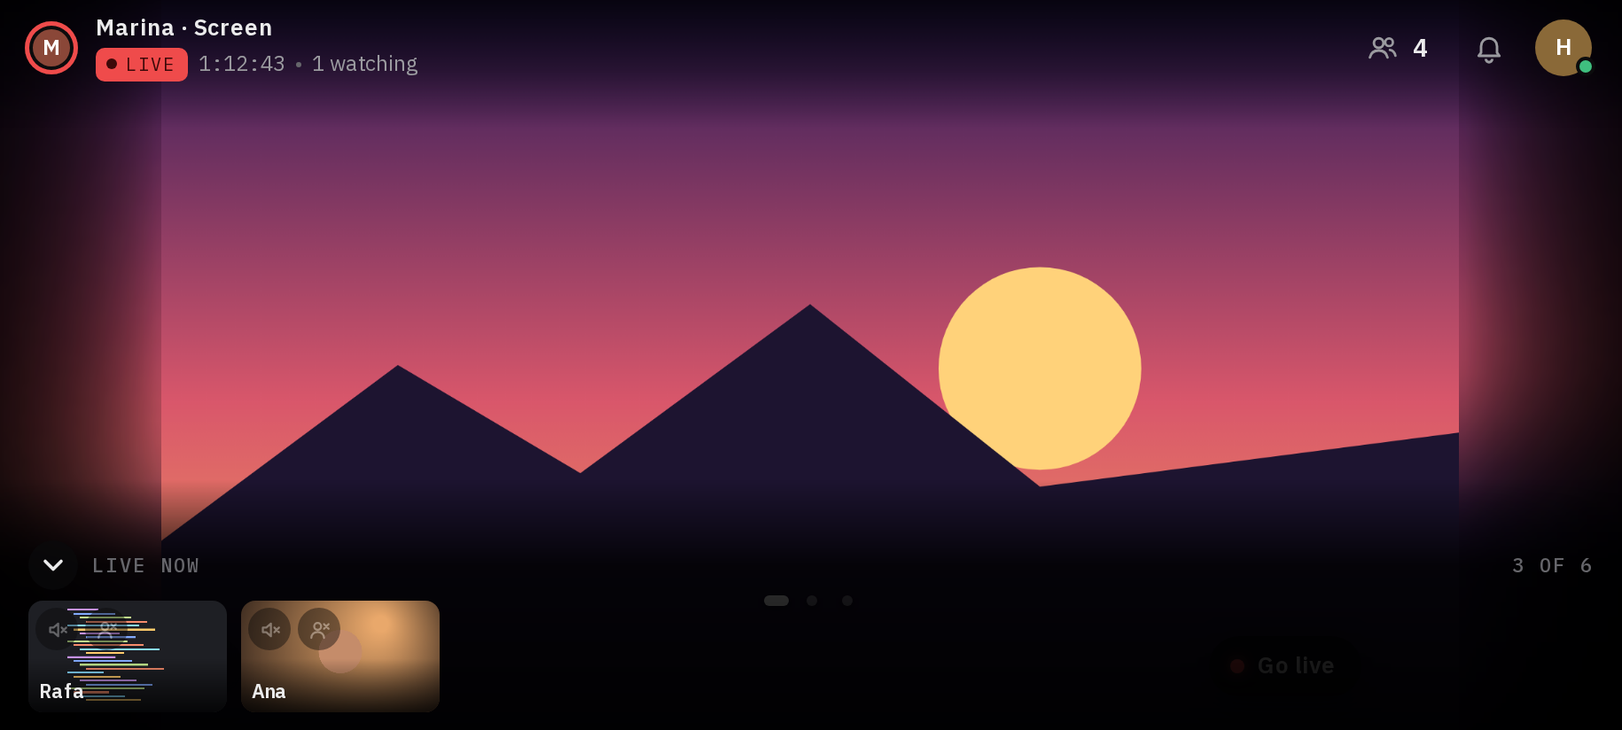
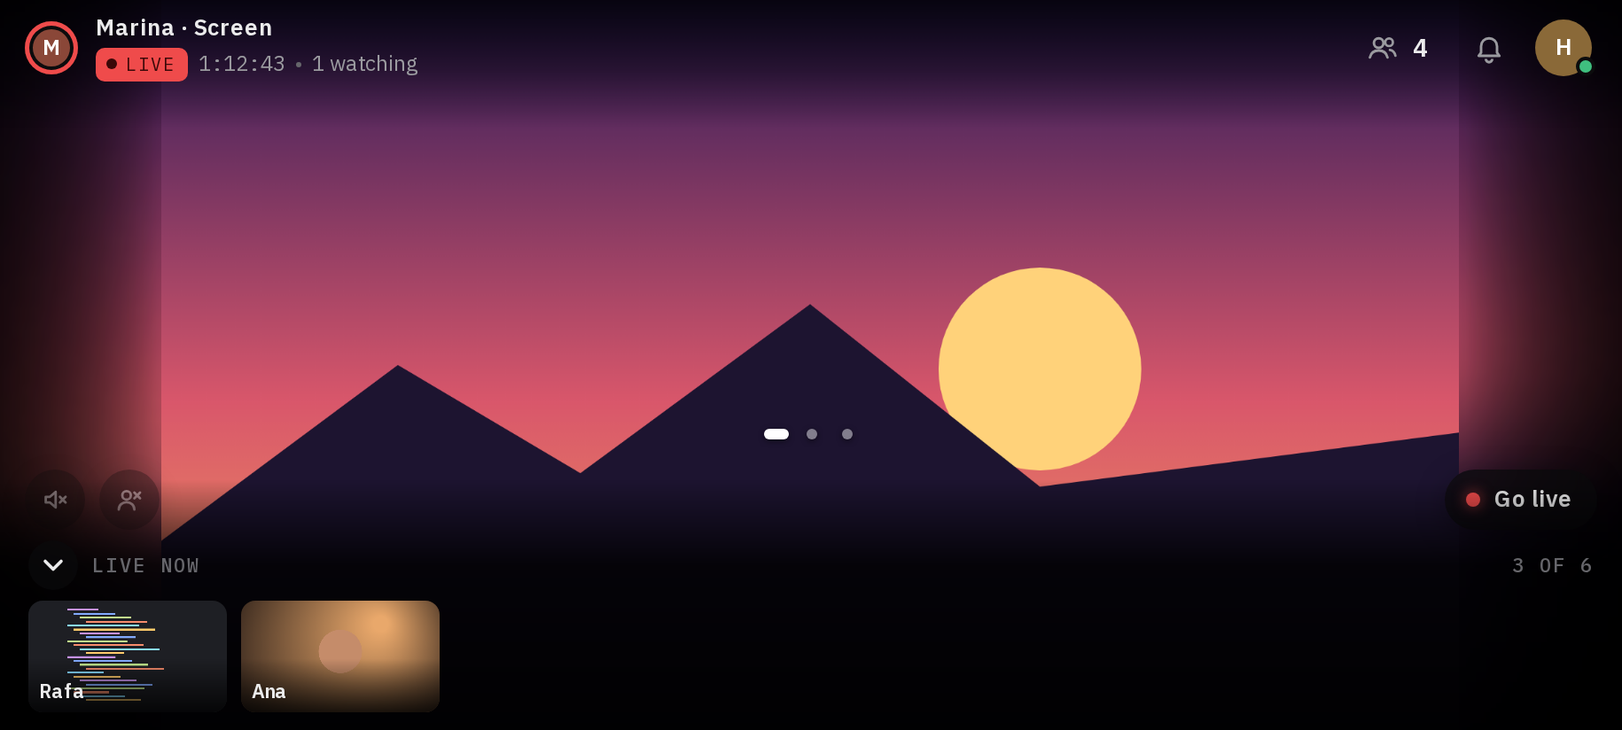
docs(web): previews heard, their row, the stack, the sideways controls and the tap in the design sheet, media and architecture (0131)
The arrow's room is dropped while the settings sheet lifts the buttons off its line.

diff --git a/app/src/components/stage/Stage.tsx b/app/src/components/stage/Stage.tsx
@@ -367,7 +367,9 @@ export function Stage({
       box?.removeEventListener("transitionend", place);
     };
   }, [settingsOpen, sideways, onScreen]);
-  const rowArrow = sideways && Boolean(big) && sharers.length > 1;
+  // The streams row's arrow at the bottom-left, on the buttons' line; lifted above the settings sheet,
+  // the buttons are off its line and need no room for it.
+  const rowArrow = sideways && Boolean(big) && sharers.length > 1 && !makingRoom;
   const playing = Boolean(main && (big?.isMe ? main.local : main.remote));
   useEffect(() => () => window.clearTimeout(idleTimer.current), []);
 

diff --git a/docs/design.md b/docs/design.md
@@ -147,7 +147,12 @@ Body line height is 1.5; headings balance their lines (`text-wrap: balance`). Fo
 | A drop-up: the pause before it unrolls | 120 ms resting on the button | — |
 | …its fade and 6 px slide up | 140 ms and 180 ms; a slip outside shorter than 300 ms doesn't close it | ease, `cubic-bezier(0.2, 0.8, 0.2, 1)` |
 | A sound's slider unrolling over its button: resting the mouse on it, or holding it by touch | after 120 ms at rest, 500 ms held; closes after 4 s without a touch | `cubic-bezier(0.2, 0.8, 0.2, 1)` |
-| The speaking cue lighting and going out | 120 ms | ease |
+| The speaking cue lighting and going out (a button's, a preview's ring) | 120 ms | ease |
+| A small preview's row unrolling from its preview and rolling back into it; moving to another preview, one rolls back as the next unrolls | 260 ms (`--unroll`), fading in 200 ms | `cubic-bezier(0.2, 0.8, 0.2, 1)` |
+| The row's slider unrolling after its buttons, and rolling back | 300 ms; 240 ms back | `cubic-bezier(0.2, 0.8, 0.2, 1)`; `cubic-bezier(0.4, 0, 0.2, 1)` back |
+| Switching the row's slider to the other sound: the old bar shrinks to the left, the new one grows from it, the icons crossfading | 220 ms shrink; 260 ms grow, 120 ms later | `cubic-bezier(0.4, 0, 0.2, 1)`; `cubic-bezier(0.2, 0.8, 0.2, 1)` |
+| A stacked preview's swap: the picture behind comes forward | 360 ms | `cubic-bezier(0.2, 0.8, 0.2, 1)` |
+| The buttons rising above the open streams row, and settling back | 280 ms, with the row | ease |
 | A picker's chevron turning | 200 ms | `cubic-bezier(0.2, 0.8, 0.2, 1)` |
 | The cue: a control pointed at (a sharp red border pulsing in place, with a slight glow) | two 1 s pulses, then lit until the next press; still with reduced motion | ease-in-out |
 | A list unrolling from its pill, its options fading in by their distance (40 ms apart), and rolling back | 220 ms; 150 ms back | `cubic-bezier(0.2, 0.8, 0.2, 1)`; ease-in back |
@@ -156,7 +161,7 @@ Body line height is 1.5; headings balance their lines (`text-wrap: balance`). Fo
 | A new activity in the pill | 350 ms | ease |
 | Facecam buttons fading | 250 ms | ease |
 | The stage resizing to a new picture | 350 ms | ease |
-| Controls over a playing stream | fade after about 2.5 s without a touch or mouse move; back on any move | — |
+| Controls over a playing stream | fade after about 2.5 s without a touch or mouse move; back on any mouse move; by touch, a tap on empty space shows or hides them; an open streams row and a heard voice stay | 250 ms fade |
 | The ambilight following the picture | 120 ms time constant, with the screen's refresh (at most 60 a second) | — |
 | The live dot's ping | 1.8 s, looping | ease-out |
 | The mark's hover animation | about 3 s, once | — |
@@ -193,7 +198,8 @@ Body line height is 1.5; headings balance their lines (`text-wrap: balance`). Fo
 - **34 px** round buttons, as small as the fullscreen button, so the picture stays the subject; the round buttons' glass, a 16 px icon. The left corner is level with the fullscreen button; the right corner sits just left of it.
 - **At the left, what I hear from them, each sound its own button in a fixed place:** their screen's sound (a speaker), then their voice (a speaking head). A sound that isn't there is greyed in its place (45%, its reason in the tooltip: "No sound in this stream", "Marina's mic is off"), and a touch says it in the [toast](#notifications-and-status).
 - **A tap or click mutes and unmutes that one sound** (crossed while muted, pressed for screen readers). **Resting the mouse on it (120 ms) or holding it by touch (500 ms) unrolls its own slider** over it ([the slider](#sliders), upright); Tab opens it, Enter mutes. Moving a slider also unmutes; it closes after 4 s without a touch, or a press outside. On an iPhone, which can't set a page's volume, each button is on and off, with no slider.
-- **Each person's sound and voice keep their own mute and volume** while I'm in the room, so watching someone else and coming back never brings back a sound I muted. The volumes I set last are the start for the next person.
+- **One switch per sound, following the person** (everywhere: the stage, a preview, the phone's feed): each person's sound and voice keep their own on/off and volume while I'm in the room. Until I touch it, a person is heard while on the stage and off while small; once I touch it, my choice stays, small or big. The volumes I set last are the start for the next person.
+- **A heard voice never fades:** when the controls fade, the voice button of the person on the stage stays, alone in the bottom-left corner (the sound beside it folds away), so its speaking cue still shows; above the streams row when that's open. Muted or off, it fades with the rest. While faded it's a light, not a button: a tap brings the controls back.
 
 ![A sound's own slider, over its button](images/design/hear-slider.png) ![Go live's menu](images/design/go-live.png)
 
@@ -269,7 +275,7 @@ Two sizes: **md** (10 × 18 px padding, 15 px text) and **sm** (6 × 12 px, 13 p
 
 ### Sliders
 
-`components/ui/Range`, white like a video player's: a **3 px track**, white up to the knob and `#ebebec` at 22% after, and a **12 px white knob** that grows to 14 px on hover or keyboard focus. Used for the ambilight's brightness and each sound's volume over the stage ([upright](#what-i-hear-and-go-live)). WebKit has no part for the filled side, so `Range` sets a `--fill` variable; Firefox uses `::-moz-range-progress`.
+`components/ui/Range`, white like a video player's: a **3 px track**, white up to the knob and `#ebebec` at 22% after, and a **12 px white knob** that grows to 14 px on hover or keyboard focus. Used for the ambilight's brightness, each sound's volume over the stage and on the phone's feed cards ([upright](#what-i-hear-and-go-live), in the stage's glass pill), and in a small preview's row ([across, after the buttons](#on-the-stage)). WebKit has no part for the filled side, so `Range` sets a `--fill` variable; Firefox uses `::-moz-range-progress`.
 
 **A threshold is a line, not a knob:** the mic's sensitivity is a slim upright white line (3 × 14 px, growing to 16 px) across the same slim track, the common mark for a threshold.
 
@@ -304,9 +310,15 @@ A slim grey track (**36 × 12 px**, `#3a3a3d`) that looks the same off and on, a
 ![The info row under the stage](images/design/info-row.png)
 
 - **The info row:** on the left, who's on the stage (avatar with its ring, name in the display font, LIVE, what (" · voice" while their voice is on), how long) and who's watching (up to 4 avatars and "N watching", me included, never the sharer); with nobody live, an empty circle where the photo goes, **"Nobody's sharing"**, and who's here. On the right, the other streams as **previews** with a name chip (their screen, or their camera when that's all they share), then **the seats**: a dashed box of six dots, three over three, grey for an open seat and red for each stream live, their count in words on hover; gone when all 6 are live. When room runs short, the left gives way first, then the previews scroll with a slim scrollbar, and the box stays put.
-- **Previews are silent** (only the person I watch is heard), and each carries that person's **two toggles** at its corner, their sound and their voice (24 px), the same mutes their stage uses, the voice lit while they speak. The phone's cards have them too, beside the picture.
+- **Previews can be heard:** each person's sound and voice have [one switch each](#what-i-hear-and-go-live), off at first while small; a preview I turn on plays at its own volume, as many as I like. A preview's sounds are downloaded only while I hear them.
+- **Small pictures keep their buttons outside** (the desktop's 128 px previews, the 112 px sideways thumbnails): pointing at a preview (a mouse) or holding it for 500 ms (a finger) opens its **row**: the voice (a speaking head), the screen's sound, and a swap when they share a screen and a camera. **Big pictures** (the phone's feed) keep the buttons on the picture, each with its own upright slider.
+- **The row** floats under the preview, or above it where the window has no room under it (the side is chosen once, as it opens, with room for the slider); it's **exactly the picture's width**, centred on the picture (not on what peeks out behind it), and follows its preview. It wears the [panels' glass](#dropdown-panels) (16 px corners, its thin light border, the panels' shadow); its 28 px buttons are clear until hovered and **centred both ways** (5 px above and below while closed). **Resting on a button (120 ms) or holding it unrolls one slider after the buttons**, on the side away from the preview, so the buttons never move under the pointer; the row never changes width. The button whose slider is open has a soft 1 px ring. Moving to the other sound, the old bar shrinks to the left as the new one grows from it. The row stays while its slider is in use and while the pointer travels from the preview to it (250 ms); it closes a moment after the pointer leaves both, or on a press elsewhere. Moving to another preview, its row unrolls from it as the last one rolls back into its own.
+- **A screen and a camera stack:** the other picture peeks out behind, at half opacity, filling its box (no black bar): from the top right on the desktop strip and the sideways thumbnails, from the top and narrower on the phone's full-width cards, inside the page's margins. The swap trades them, the one behind coming forward (360 ms). **My own preview**, when I share both, has the swap alone: there's nothing of mine to hear.
+- **Who's speaking, on a preview:** while I hear a person and they speak, their picture's ring lights in the voice button's green (1 px, `#2bcd68` at 85%, the same soft glow), with their row closed; with it open, the voice button lights instead; muted, nothing.
+- **One ring on the open preview:** the red hover ring stays while its row is open, drawn inside the picture so the strip's scrolling never clips it.
+- **Even spacing:** 10 px between previews, and between the last one and the seats, with a peek counted in.
 
-![Previews with their toggles, and the seats](images/design/preview-toggles.png)
+![A preview's row, its voice slider open](images/design/preview-row.png) ![A heard preview lit while Marina speaks](images/design/preview-ring.png)
 - **The facecam:** the camera as a small window over the screen, 24% of the player's width, `--radius-sm`, with 28 px round buttons (swap views, collapse) that fade with the controls; collapsed, a 28 × 44 px tab at the right edge. It **starts at the top right** (just under the top bar where one lies over the player), clear of the round buttons and the fullscreen button. It can be dragged, or moved with the arrow keys. Swapping also works on your own preview; the swap and the collapse last for the visit only.
 - **The fullscreen button has one place:** the **bottom right** of the player, its centre level with the round buttons, to enter and to leave, on desktop and phones alike, over a stream and over the empty stage, so stopping the only stream in fullscreen (or in a phone's full view) never strands you there. Held sideways, a phone has none: the room is always in the full view.
 
@@ -358,7 +370,9 @@ Turning switches layouts at once, and the stage keeps its place in the page, so 
 
 - **Top bar:** the wordmark; the people button, the bell and my account on the right. No footer: its links end the account menu.
 - **The stage** edge to edge under the top bar, never taller than 60% of the screen, with the round buttons and the dots on it; a swipe left or right changes who's on it.
-- **Under it, the only part that scrolls:** "LIVE NOW · 3 OF 6" and the other streams as a **feed** of full-width pictures, each with the compact info row; a tap puts one on the stage. With nobody live: who's here as **cards**, with how long each has been here.
+- **Under it, the only part that scrolls:** "LIVE NOW · 3 OF 6" and the other streams as a **feed** of full-width pictures, each with the compact info row; a tap puts one on the stage. Each card has its person's buttons at the picture's bottom left (voice, screen sound, and a swap for a [stack](#on-the-stage)); holding one unrolls its slider upright above it. With nobody live: who's here as **cards**, with how long each has been here.
+
+![A feed card, stacked, with its voice's slider](images/design/feed-slider.png)
 
 ### Phone, sideways
 
@@ -366,10 +380,13 @@ Turning switches layouts at once, and the stage keeps its place in the page, so 
 
 - **No header or footer:** the stage fills the height and hugs the picture, black at its sides where the light glows.
 - **A top bar** over a black gradient: who's on the stage on the left; the people button, the bell and my account on the right.
-- **The round buttons** at the bottom; a round arrow button at the bottom left opens the **streams row** (small silent pictures with names, over a black gradient), as does a swipe up.
+- **The controls belong to the screen:** the round buttons and the corners' buttons sit at the **screen's** bottom, not the picture's, whatever its shape. A round arrow button at the bottom left opens the **streams row** (small pictures with names, over a black gradient), as does a swipe up; the stage's sounds start 8 px after the arrow, on its line, and go back to the edge when it moves into the open row. A phone held sideways has no fullscreen button: **Go live** (or the cog, with nobody live) takes its corner, 14 px in, like the arrow on the left.
+- **The open streams row pushes the buttons up**, to 6 px above its pictures, as the settings sheet does in the full view; its gradient on top lets presses through to them. Held, a thumbnail shows its buttons over its lower part.
 - **The settings** open over the cog in two columns, so they fit the short screen without scrolling: on Camera, the preview alone on the left, the camera's picker, Quality and Mode on the right.
-- Everything fades about 2.5 s after the last touch while a stream plays, and an open streams row closes with it.
-- **The full-screen view:** upright, the fullscreen button shows this same layout without turning the phone; turning doesn't change the choice. There the round buttons and the fullscreen button are the **screen's**, at its bottom (12 px up, above the iPhone's home indicator), not the player band's, so they're where the thumb is whatever the shape of the share; an open streams row covers them, as held sideways.
+- **A tap on empty space shows the controls, or hides them, every time;** a tap on a button only presses it, and a drag (a swipe) only shows them. They fade about 2.5 s after the last touch while a stream plays; **an open streams row stays** through that fade (only a tap hides it, with everything, and the next brings it back), and so does a heard voice. The row keeps its gradient: it's part of the picture's controls and fades with them, while the settings keep their panel.
+
+![Faded with the streams row open: the row and the heard voice stay](images/design/sideways-faded.png)
+- **The full-screen view:** upright, the fullscreen button shows this same layout without turning the phone; turning doesn't change the choice. There the round buttons and the fullscreen button are the **screen's**, at its bottom (12 px up, above the iPhone's home indicator), not the player band's, so they're where the thumb is whatever the shape of the share; an open streams row lifts them above it, as held sideways.
 
 ![The full view with the settings open: the buttons above the sheet, the vertical share under it](images/design/full-view-sheet.png)
 
@@ -402,6 +419,11 @@ What a phone or tablet sees in a browser tab, on every page: the wordmark, the s
   ![The cue on Change](images/design/cue.png)
 - **A button that opens a panel never also changes a setting** (the cog only opens the settings). A button that *is* a sound mutes it with a tap, and opens its own slider on a rest or a hold.
 - **Controls by owner:** what I hear on the left of someone's stream, me on the right; my stream's controls only on my stream. A mic icon means my mic.
+- **One switch per sound, following the person:** a person's sound and voice are on or off wherever they are, big or small, once I touch them.
+- **Small pictures keep their buttons outside them**, in a row that opens on a point or a hold; big ones keep them on the picture. A row is its picture's width and centred on it, and nothing in it moves under the pointer.
+- **What rises from the bottom pushes the buttons up** (the streams row, the settings sheet): nothing covers them.
+- **A tap on empty space shows or hides the controls; buttons are only buttons.** Only the keyboard's focus keeps the controls up. What I chose to keep open (the streams row) and what tells me who's speaking (a heard voice) never fade by themselves.
+- **Even spacing:** a row of pictures keeps one gap between all of them, counting what peeks out behind one; a button sits in the middle of its box both ways.
 - **Say each thing once:** on one screen, a fact (who's here, the seats, that nobody's sharing) appears in one place only.
 - **A panel's places are fixed.** A set of controls (the sounds I hear, and any like it) keeps every place it will ever have; one that can't be used yet is greyed in place, never left out, and never counts for a summary.
 - **Unavailable, not hidden.** An option that can't be used here stays in its place, greyed out (a text option, like a tab: the faint text colour at 50%; a control, like a round button or a sound I can't hear: 45% opacity), with its reason in its tooltip, so a panel looks the same on every device.

diff --git a/docs/architecture.md b/docs/architecture.md
@@ -24,7 +24,7 @@ Everything is in `app/src`:
 | `pages/` | One component per route: `HomePage`, `RequestAccessPage`, `RoomPage`, `AdminPage`, and `InstallPage` |
 | `hooks/` | The room's state and the browser's: the seat and the queue (`useRoomSeat`), the streams (`useStreams`), the LiveKit connection (`useLiveKitRoom`), both put together for the room (`useRoomSession`), who's on the stage (`useStagePick`), the layout (`useRoomLayout`), swipes (`useStageSwipe`), the video's shape (`useVideoShape`), the round buttons' row holding the clicked button still (`usePinnedRow`), and small ones (`useElapsed`, `useFullscreenElement`, `useInstalled`) |
 | `media/` | How screens and cameras are sent (`shareSettings.ts`), the ambilight's drawing (`ambilight.ts`), who is big by default (`stagePick.ts`), choices kept in the browser (`preferences.ts`) |
-| `components/stage/` | The player and what's on it: the stage, the ambilight, the controls by owner: my own stream's round buttons (`PlayerButtons`; their icons in `icons.tsx`, the drop-ups on live ones) and, over someone else's stream, `ViewerBar` (what I hear at the left, each sound its own button and slider; my mic or Go live at the right); the voice I hear (`VoiceAudio`), each person's mutes held by the stage for the visit, and the previews' toggles (`HearToggles`); the settings panel (`SettingsPanel`, its Voice tab's mic level in `MicTest`, and `makeRoom`, which moves the player up for its sheet in the upright full view), the facecam, the previews, the phone's feed and row, the empty stage (`EmptyStage`, its corners' glow in `CornerGlow`), the info row; in a phone's upright full view the fullscreen button and the round buttons are drawn on the stage itself, at the bottom of the screen, and `makeRoom` lifts them above the settings sheet; in the upright normal view it lifts them over the video, inside the player, where a tall player reaches under the sheet |
+| `components/stage/` | The player and what's on it: the stage, the ambilight, the controls by owner: my own stream's round buttons (`PlayerButtons`; their icons in `icons.tsx`, the drop-ups on live ones) and, over someone else's stream, `ViewerBar` (what I hear at the left, each sound its own button and slider; my mic or Go live at the right); the voice I hear (`VoiceAudio`), each person's switches and volumes held by the stage for the visit (the rule in `media/hearing.ts`), and the previews' buttons (`HearToggles`: over a big picture, or in a small preview's row, `PreviewTray`, which floats on its own layer over the page and follows its preview, opened through `usePreviewTray`); the settings panel (`SettingsPanel`, its Voice tab's mic level in `MicTest`, and `makeRoom`, which moves the player up for its sheet in the upright full view), the facecam, the previews, the phone's feed and row, the empty stage (`EmptyStage`, its corners' glow in `CornerGlow`), the info row; in a phone's upright full view the fullscreen button and the round buttons are drawn on the stage itself, at the bottom of the screen, and `makeRoom` lifts them above the settings sheet; in the upright normal view it lifts them over the video, inside the player, where a tall player reaches under the sheet |
 | `components/room/` | The room around the stage: header, footer, people, activity (pill, bell, list), account menu, the waiting screen and the seat offer |
 | `components/ui/` | Shared controls: `Button`, `Range`, `Dropdown`, `Segmented`, `Picker` (a list that floats over its panel, masking what's behind it in the nearest `[data-list-host]`; it opens on request too), `DropUp` (its gestures can redirect to an open panel), the cue (`cue.module.css`), `Avatar`, `PersonAvatar`, `LiveDot`, `FullPageMessage`, `Toast` (a short message any component shows with `showToast`) |
 | `components/brand/`, `brand/` | The mark: its geometry and animation timeline (`brand/`), and the components that draw it (`XoveMark`, `XoveIcon`) |
@@ -153,7 +153,9 @@ Sharing a screen or a camera is in [Media](media.md).
 - **The stage never moves in the page.** Turning or resizing changes the layout around it, so the video and a share go on without reloading.
 - **The stage hugs the picture.** `useVideoShape` reads the big video's width ÷ height from its `resize` event (ignoring changes under 1%), and the stage sizes itself from it in container units, inside a 16:9 box.
 - **Swipes** (`useStageSwipe`): left and right change who's on the stage, in the feed's order and wrapping around; the picture follows the finger, and a drag under a quarter of the width springs back unless it was a quick flick. Sideways, a swipe up opens the streams row and a swipe down closes it. Drags that start on a control (`data-no-swipe`) are the control's.
-- **Fading:** what fades over a playing stream is marked `data-fades`; the stage hides it after `CHROME_IDLE_MS` without a touch or a move ([how it looks](design.md#motion)).
+- **Fading:** what fades over a playing stream is marked `data-fades`; the stage hides it after `CHROME_IDLE_MS` without a touch or a move ([how it looks](design.md#motion)). The controls fade part by part, so a part marked `data-stays` (a heard voice) stays. Only the keyboard's focus holds them up (`useKeyboardLast`): a finger's tap leaves focus behind on the button it pressed. An open streams row stays through the fade; a tap hides it by closing it, and the stage opens it again with the controls.
+- **Taps** (`useTapToggle`): by touch, a tap on empty space shows or hides the controls; a press on a control only keeps them, and a drag (more than 10 px) or a hold (500 ms or more) isn't a tap.
+- **Sideways, the controls are the screen's:** drawn on the stage's own layer at the screen's bottom, not on the player. The stage measures where the streams row's arrow ends (`--arrow-end`) so the sounds start after it, and lifts the buttons above the open row (`--row-lift`, from `liftOverRow` in `makeRoom.ts`, as `liftButtons` does above the settings sheet).
 - **No pull-to-refresh in the room:** while the room is open (`data-room`), the page sets `overscroll-behavior: none`, so a drag down never reloads it.
 - **The full-screen view** is the room's own state (`fullView` in `RoomPage`), not the browser's fullscreen: on a phone, and a tablet held upright, the stage's fullscreen button shows the sideways layout while the device stays upright, and turning doesn't change it ([how it looks](design.md#phone-sideways)). Elsewhere the button uses the browser's fullscreen.
 

diff --git a/docs/media.md b/docs/media.md
@@ -74,7 +74,7 @@ The sharer picks a quality and a mode in the settings, before sharing or while s
 
 - **The size it shows.** The room connects with `adaptiveStream`: each video is downloaded at the size it's shown, so previews and the facecam come in small. With `dynacast`, layers nobody watches aren't sent at all.
 - **Always Auto.** There's no quality to pick while watching: each video comes at the size it's shown, steps down by itself when the connection can't keep up, and never asks for more than the sharer sends.
-- **Sound.** Only the big person's plays: their screen's sound and their voice, each with its own mute and volume, kept per person for the visit. Previews are silent, and a sound nobody hears isn't downloaded at all; a preview's toggles mute that person for when they're big. Someone sharing sees their own streams like everyone else, without their sound. There's no slider on iPhones and iPads, which ignore a page's volume: each sound is on and off.
+- **Sound.** Each person's screen sound and voice have one on/off and one volume, kept for the visit and following them wherever they are (`media/hearing.ts`): until I touch it, a person is heard while on the stage and off while small; once I do, my choice holds, small or big, so any number of previews can be heard at once, each at its own volume. **A preview's sounds are downloaded only while I hear them**; the person on the stage's stay downloaded while muted, so unmuting is instant. Someone sharing sees their own streams like everyone else, without their sound. There's no slider on iPhones and iPads, which ignore a page's volume: each sound is on and off.
 - **Remembered.** Each browser keeps its choices in `localStorage`: `xove.share.*` (quality, mode), `xove.camera.*` (quality, mode, device), `xove.mic.*` (the mic picked; its processing and line), `xove.watch.*` and `xove.voice.*` (the volume a screen's sound and a voice start at) and `xove.ambilight.*` (on, brightness).
 
 To see what really happens, open `chrome://webrtc-internals` in the sharer's or a viewer's browser: the codec, frame rate, size, bitrate, and why the quality drops ("cpu": the sharer's computer can't keep up; "bandwidth": the connection can't).
